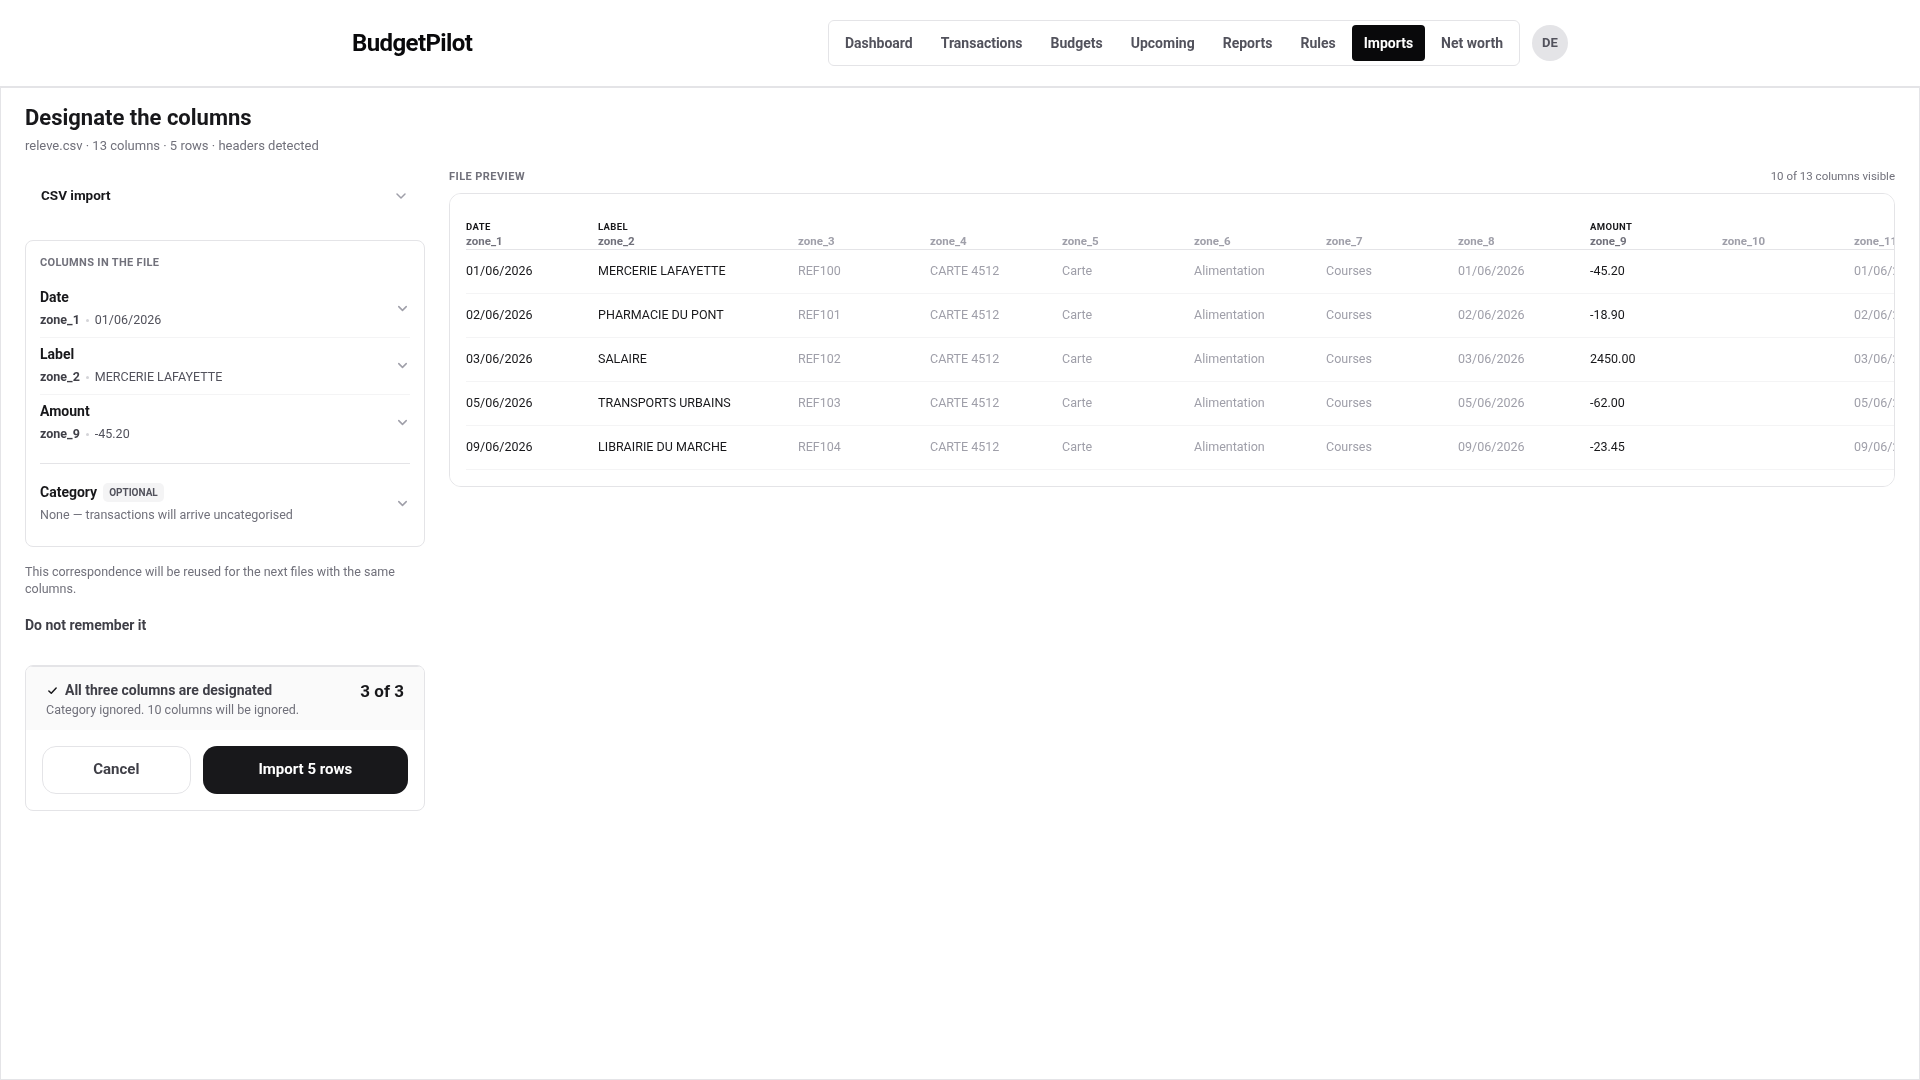
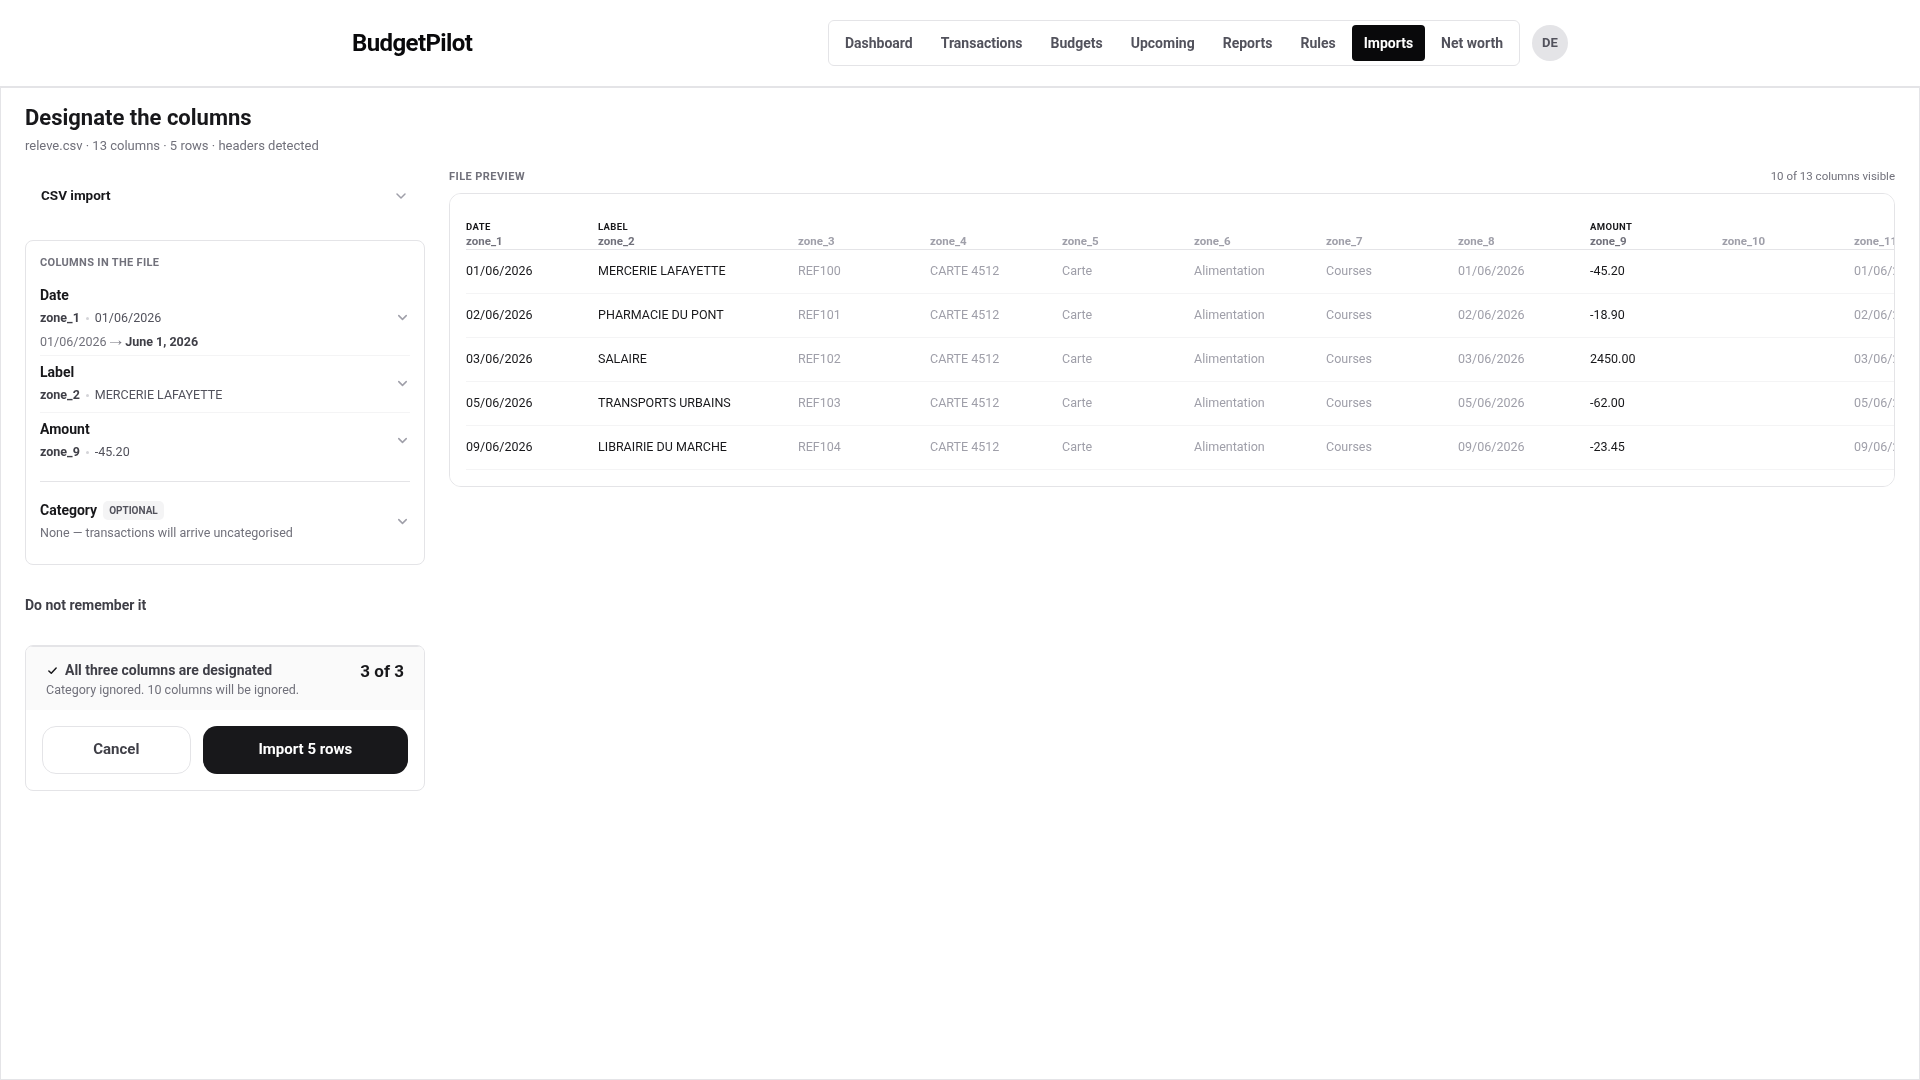
docs(import): document the date reading question, and correct a claim it makes false
## The correction is the important half

`docs/reference/imports.md` said "The day always comes first, never the month. A file written
MM/DD/YYYY imports on the wrong date rather than being refused, because nothing in the file
says which convention it uses. This is the one case designating columns cannot repair."

All three sentences are now wrong. #618 derives the order from the whole column, so a file
carrying `06/24/2026` is read month first and imports correctly; #639 asks when no row settles
it; and the designation screen is exactly where it is repaired. A user following that paragraph
today would convert dates by hand that the application reads correctly.

Replaced with the five cases and what each one does, as a table, plus the two rules a reader
needs: one value above 12 settles the whole column, and a proof in one date column settles the
others.

## What was added

A how-to under the designation section of `docs/using/imports.md`, written to the Google
developer documentation style guide's procedure rules (imperative first word, location before
action, `Optional:` rather than a parenthetical) and Microsoft's UI guidance (the
device-agnostic verb `select` rather than click or tap, since this screen ships at 390 and 1280,
and bold for UI names). The surrounding page uses `tap` and `press`; that inconsistency is left
alone rather than rewritten across 331 lines in a change about date reading.
[…]

Changed region(s): [[0.0, 0.275, 0.2188, 0.7333], [0.1875, 0.6111, 0.2188, 0.6417]]

diff --git a/docs/using/imports.md b/docs/using/imports.md
@@ -79,6 +79,45 @@ Three columns are enough. **Category is optional**, and leaving it empty means
 the transactions arrive uncategorised, where [categorization
 rules](./rules.md) can still pick them up.
 
+#### When the dates could be read two ways
+
+`06/01/2026` is either 6 January or 1 June. Most statements answer the question
+themselves: one row dated `24/06/2026` proves the day comes first, because there
+is no twenty-fourth month, and that single row settles every other row in the
+column.
+
+When **no row** in the column settles it, BudgetPilot asks instead of guessing.
+Designate the date column as usual, and the same panel stays open on one more
+question, **How should these dates be read?**
+
+![The reading question on a phone: the panel headed How should these dates be read, above two cards. Day then month is marked Current reading and reads 01/06/2026 as June 1, 2026; Month then day reads the same cell as January 6, 2026. Behind the panel the Date row shows zone_1 and the word Confirm](../screenshots/imports/columns-date-reading-mobile.png)
+
+To answer it:
+
+1. Read the two cards. Each shows **the same three cells from your file**, converted
+   both ways, so you are comparing your own dates rather than an example.
+2. Select the card that matches your statement. The panel closes and the **Date**
+   row states the reading you chose.
+3. Optional: to change your answer, select the **Date** row again, select the same
+   column, and the question comes back with your answer marked **Current reading**.
+
+The card marked **Current reading** is what the import will use if you go no
+further. Until you answer, the **Date** row reads **Confirm**, because an
+assumption nobody has looked at is not an answer.
+
+To change the column instead of the reading, select **Change column** at the foot
+of the panel.
+
+Two things are worth knowing:
+
+- **The reading applies to the whole file**, not to one row.
+- **A file whose column proves both readings is refused**, and nothing is
+  imported. That happens when one column mixes `24/06/2026` and `06/24/2026`, which
+  no single answer can make true.
+
+The full table of what settles a date order is in
+[the imports reference](../reference/imports.md#how-the-day-and-month-are-told-apart).
+
 #### On a wide screen
 
 The same four rows sit on the left, and your file is drawn beside them: the

diff --git a/docs/reference/imports.md b/docs/reference/imports.md
@@ -52,12 +52,36 @@ which column holds your money.
 | `DD.MM.YYYY` | `15.01.2026` | 15 January |
 | `DD-MM-YYYY` | `15-01-2026` | 15 January |
 
-**The day always comes first**, never the month. A file written `MM/DD/YYYY`
-imports on the wrong date rather than being refused, because nothing in the
-file says which convention it uses. This is the one case designating columns
-cannot repair: convert those dates before importing.
-
 A time after the date is ignored, so `2026-01-15 10:30:00` reads as 15 January.
+
+### How the day and month are told apart
+
+`15/01/2026` can only be 15 January, because there is no fifteenth month.
+`06/01/2026` is either 6 January or 1 June, and nothing inside the cell says
+which.
+
+BudgetPilot decides by reading the **whole column**, not the cell:
+
+| What the column contains                                       | How the file is read |
+| -------------------------------------------------------------- | -------------------- |
+| A value above 12 in the first position, such as `24/06/2026`   | Day first.           |
+| A value above 12 in the second position, such as `06/24/2026`  | Month first.         |
+| Only `YYYY-MM-DD` values                                       | Both readings agree. |
+| Every value at or below 12 in both positions                   | You are asked.       |
+| Values proving both, such as `24/06/2026` **and** `06/24/2026` | The file is refused. |
+
+A single value above 12 settles the whole column, so one unambiguous row is
+enough to read every other row correctly. Where a file has several date
+columns, a proof found in one settles the others, because a bank writes every
+date in a statement the same way.
+
+You are asked only in the fourth case, and only on the [designation
+screen](../using/imports.md#when-the-dates-could-be-read-two-ways). A file that
+is recognised automatically is never ambiguous in a way you can answer: it has
+either proved its order or it has none to prove.
+
+**If you are not asked, the file answered for itself.** The reading each import
+applied is recorded against the import, though it is not yet shown to you.
 
 Anything else is refused per row, and the message shows the value it read
 beside the forms it accepts.
